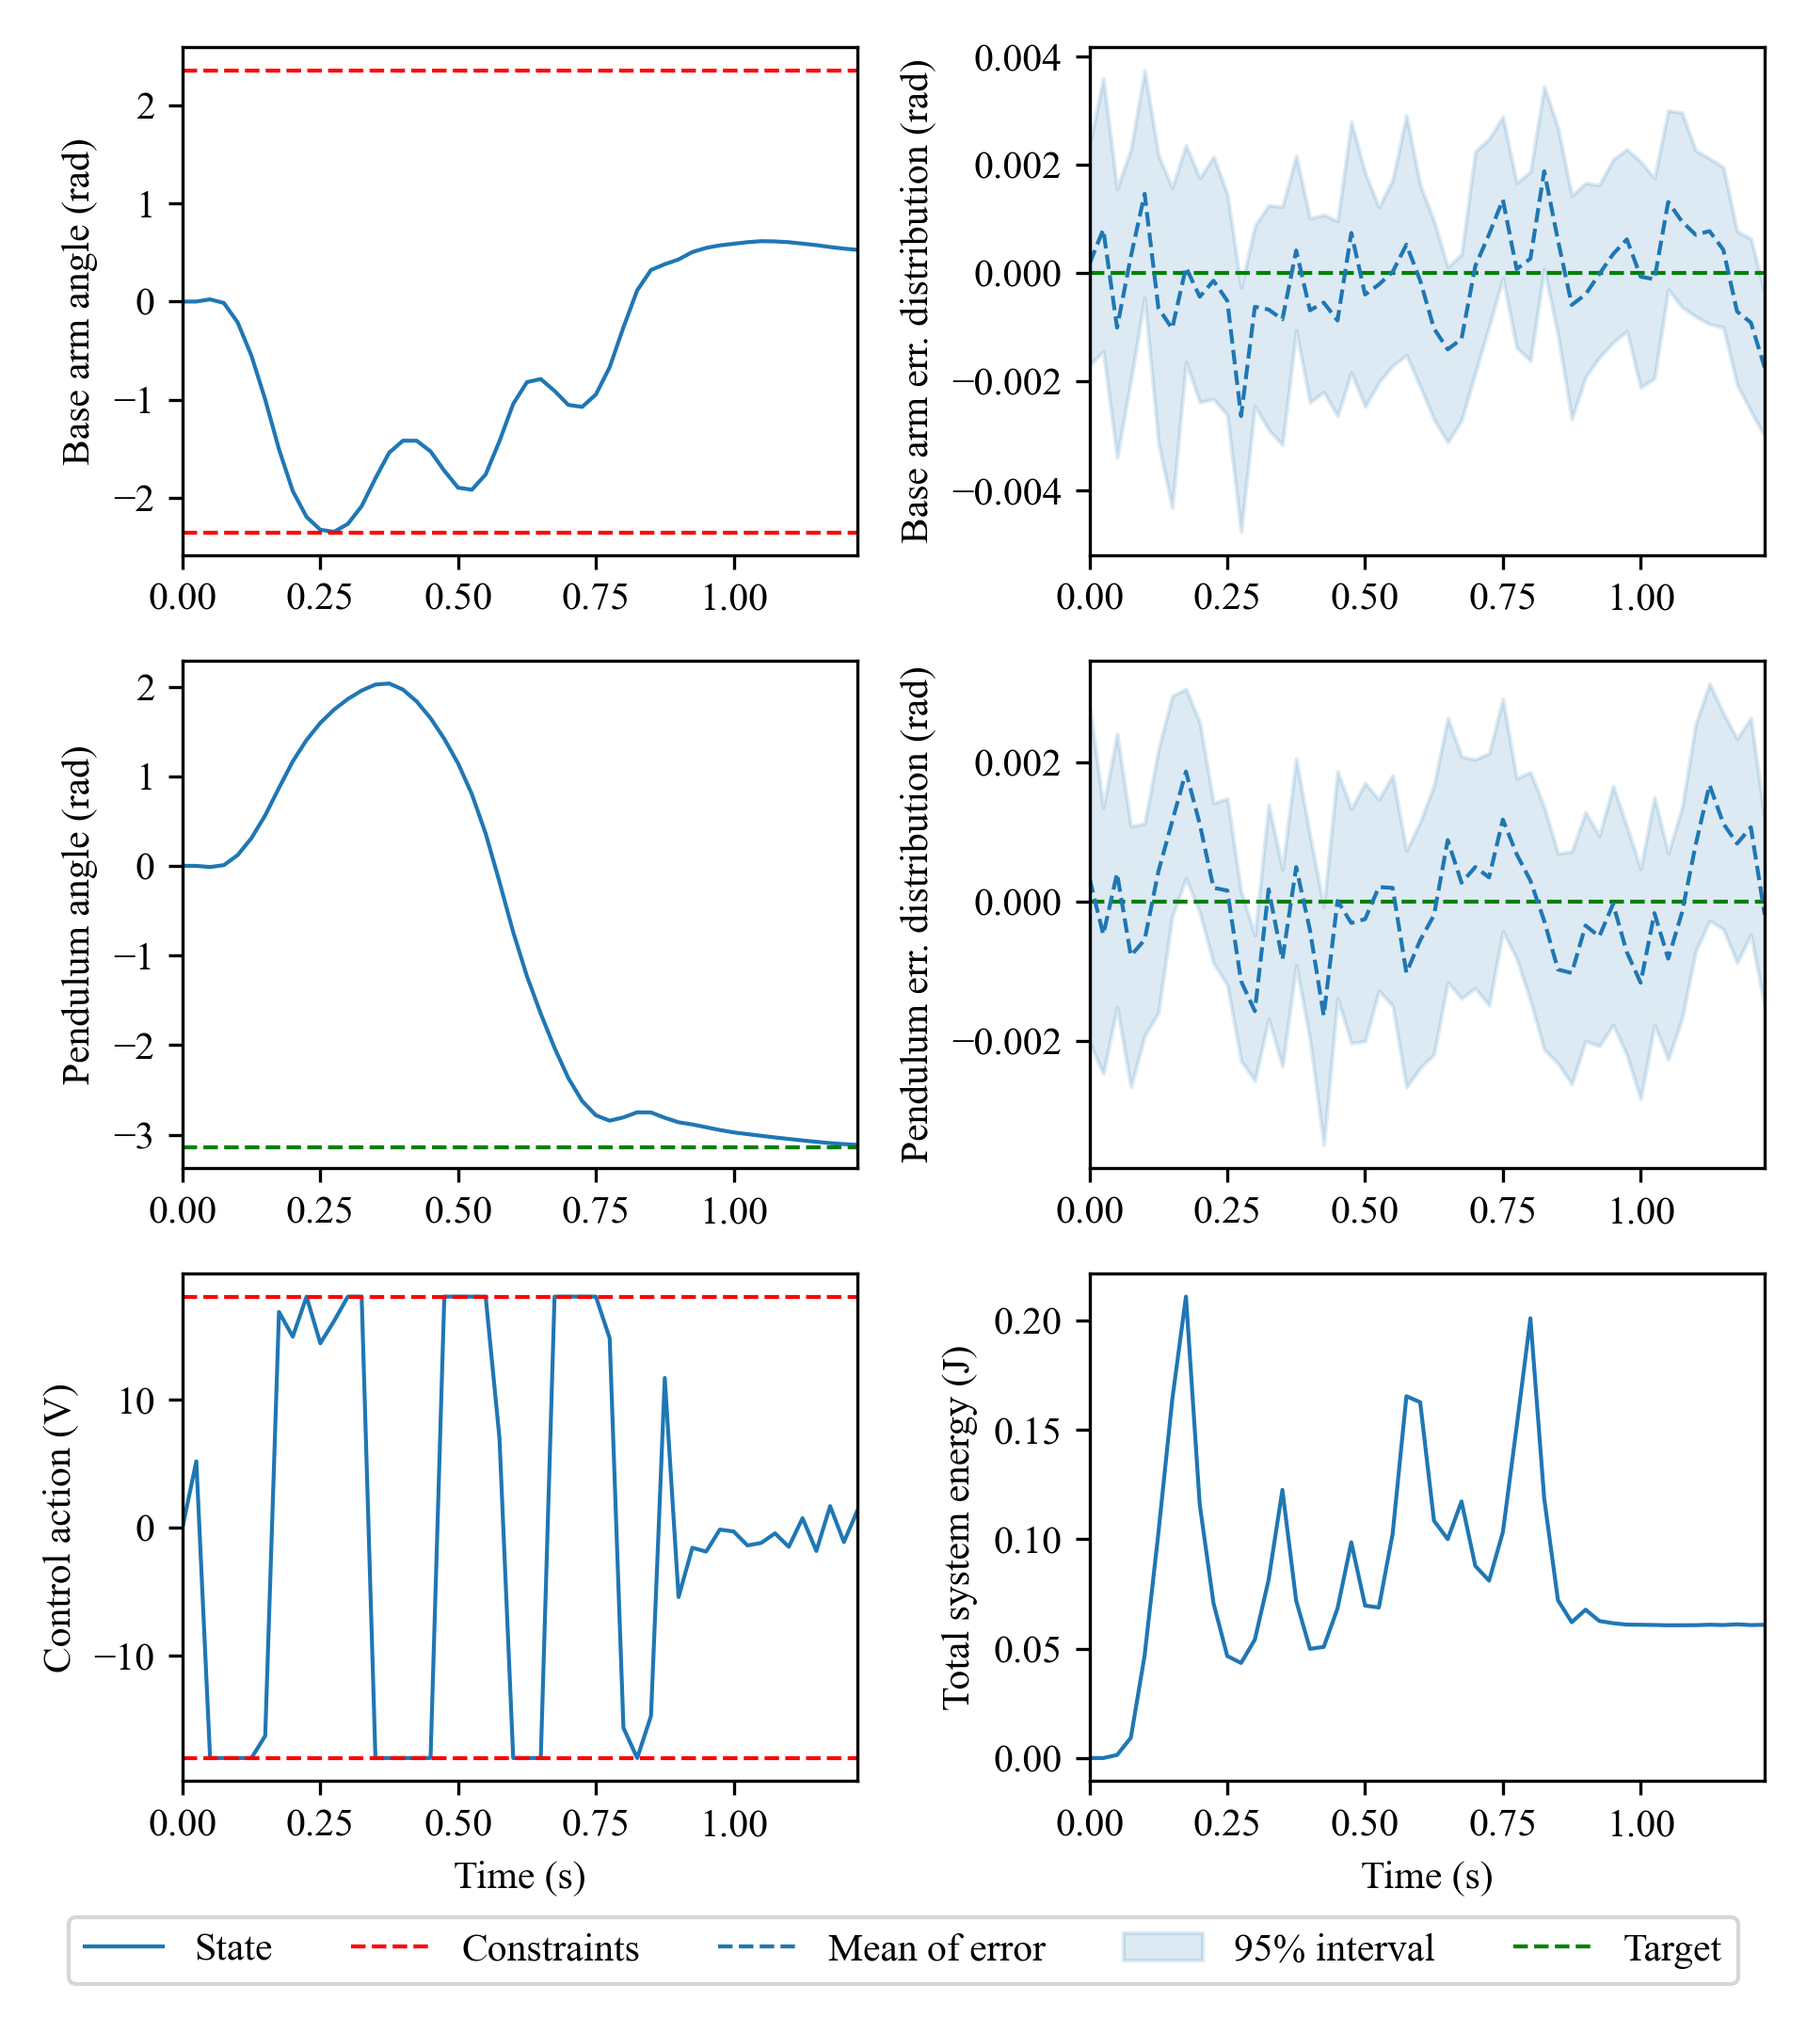
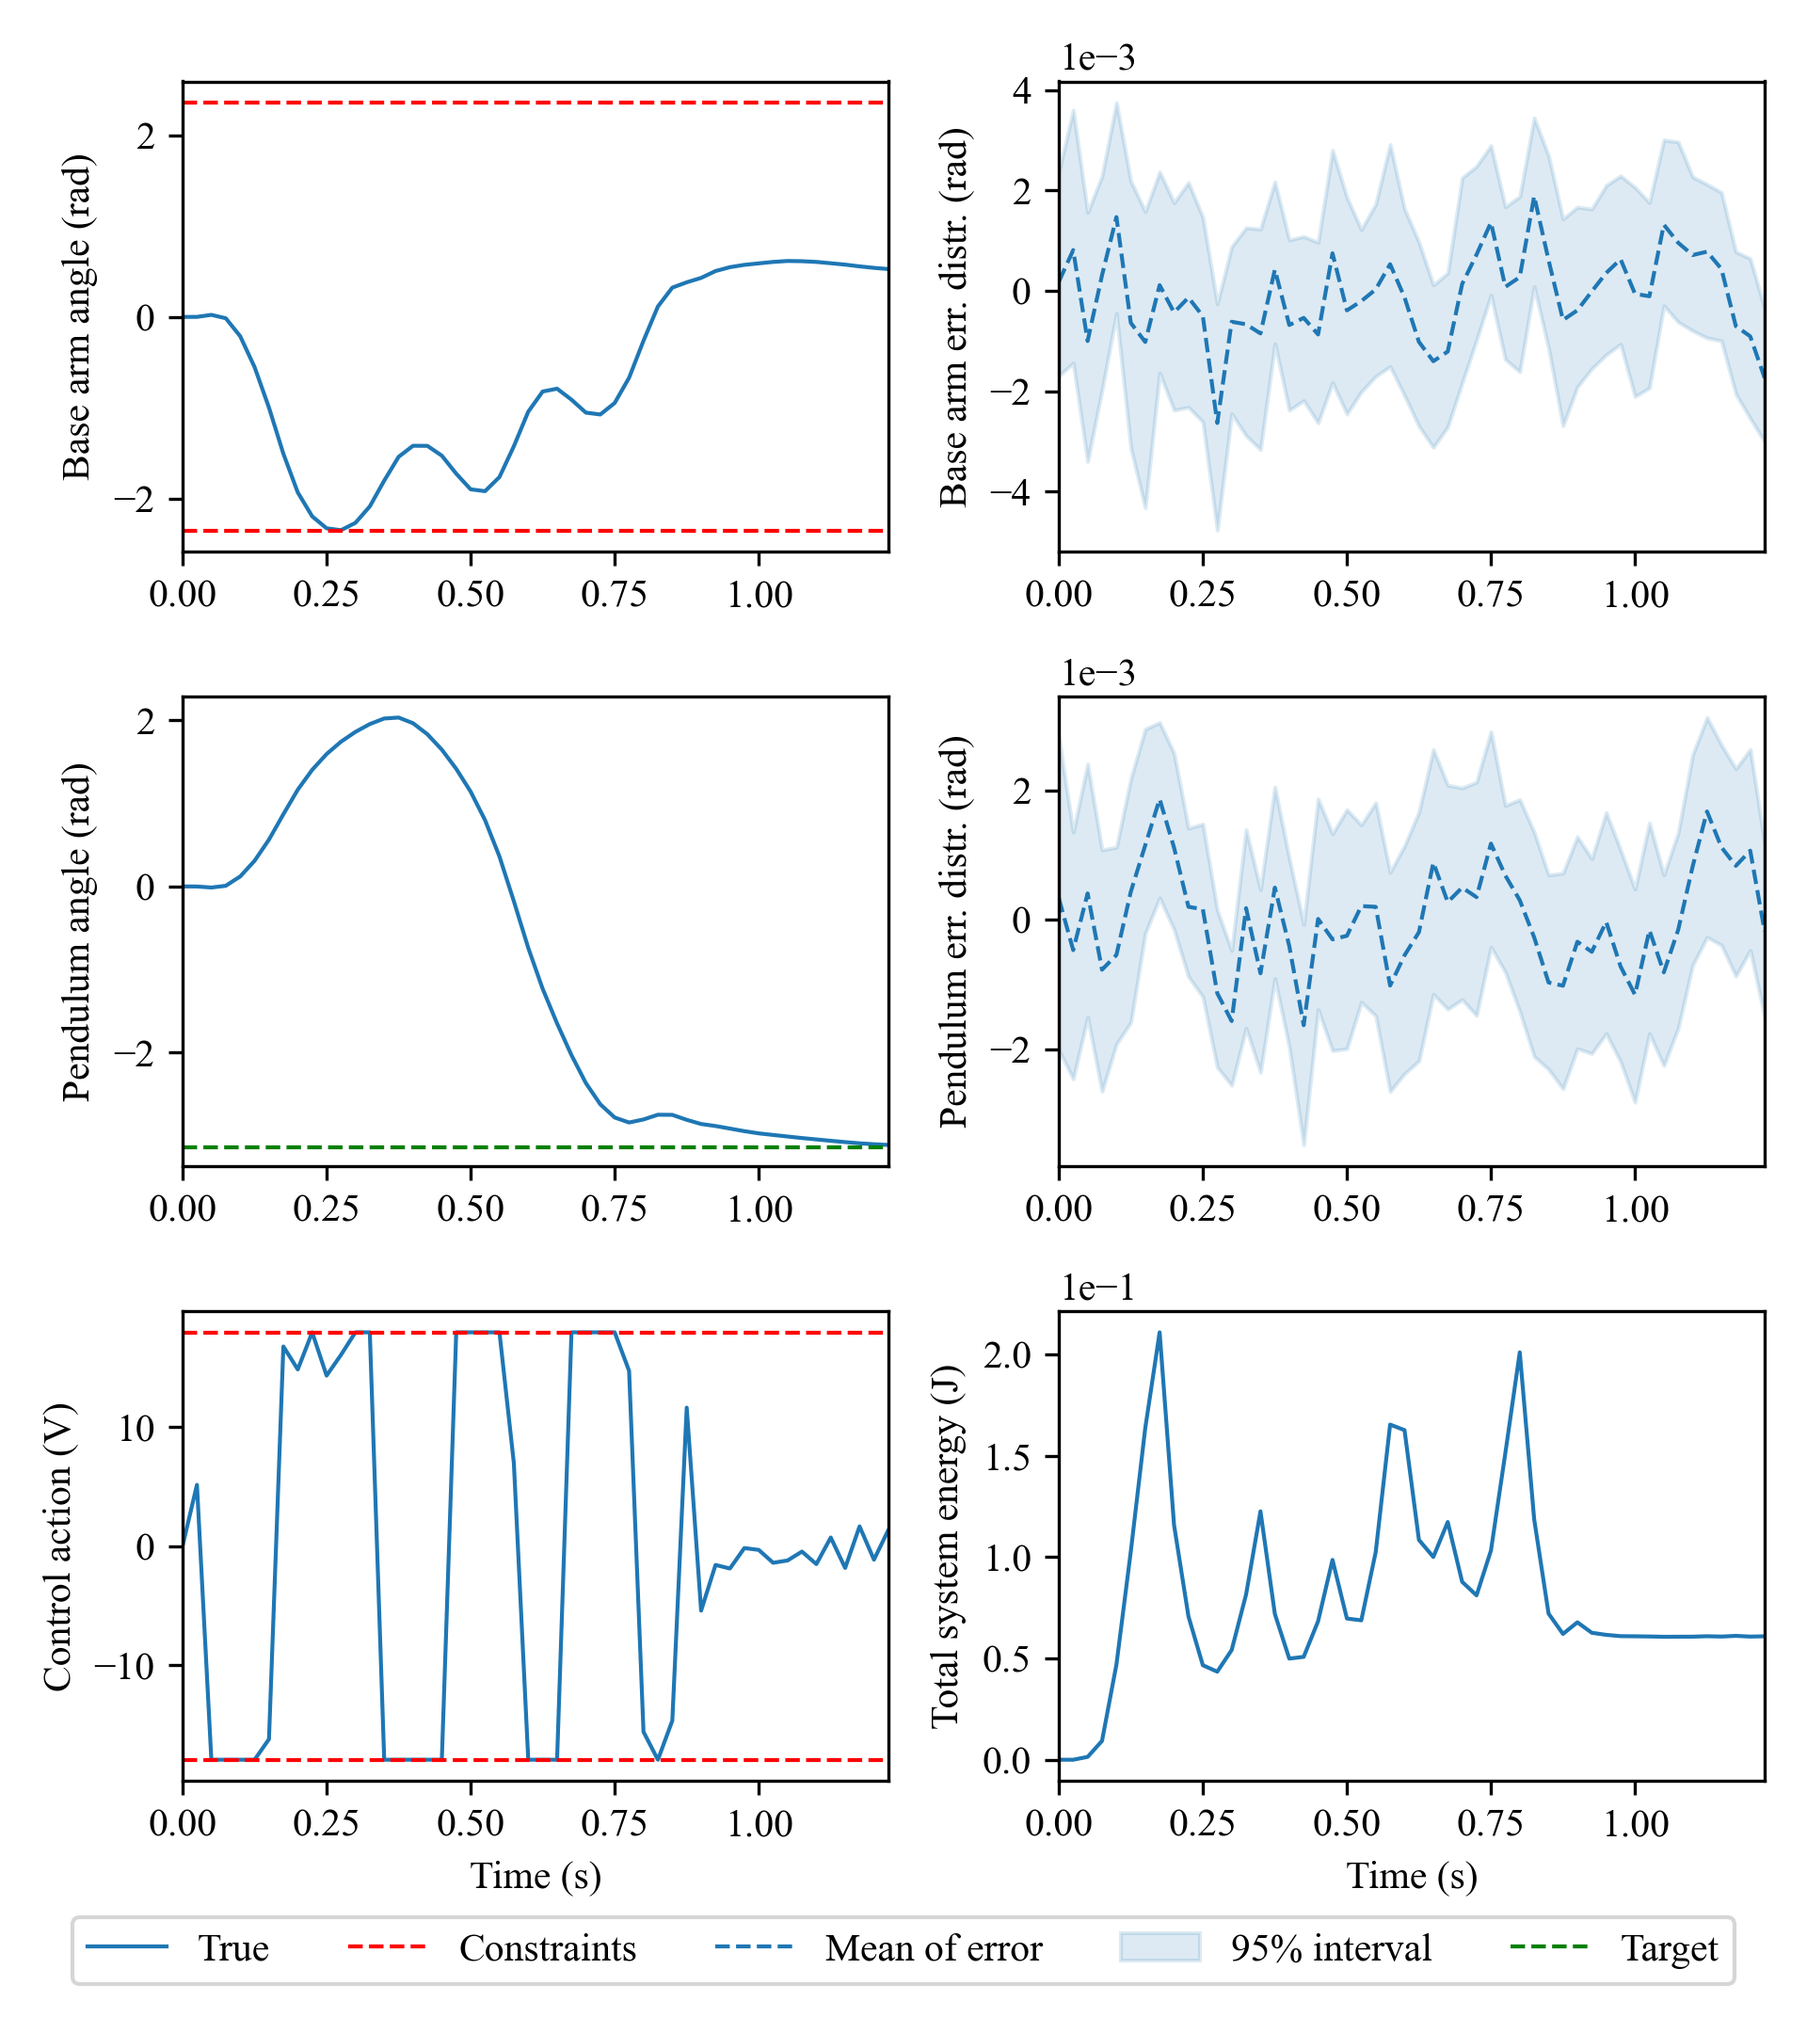
added sci for errors and fixed some titles

diff --git a/plot_pendulum_results.py b/plot_pendulum_results.py
@@ -234,7 +234,7 @@ if plotme1:
     fig = plt.figure(figsize=(6.4,7.2),dpi=300)
     plt.subplot(3, 2, 1)
     # plt.plot(ts,z_sim[0,0,:-1],label='True',linewidth = 2.0,color='k')
-    plt.plot(ts,xt_est_save[:,0,:].mean(axis=0), color=u'#1f77b4',linewidth = 1,label='State')
+    plt.plot(ts,xt_est_save[:,0,:].mean(axis=0), color=u'#1f77b4',linewidth = 1,label='True')
     # plt.fill_between(ts,np.percentile(xt_est_save[:,0,:],99.0,axis=0),np.percentile(xt_est_save[:,0,:],1.0,axis=0),color=u'#1f77b4',alpha=0.15,label='95% CI')
     plt.axhline(state_bound, linestyle='--', color='r', linewidth=1.0, label='Constraints')
     plt.axhline(-state_bound, linestyle='--', color='r', linewidth=1.0)
@@ -245,13 +245,13 @@ if plotme1:
     plt.subplot(3, 2, 2)
     # plt.plot(ts,z_sim[0,0,:-1],label='True',linewidth = 2.0,color='k')
     err = xt_est_save[:,0,:]-z_sim[0,0,:-1]
-    plt.axhline(0.0, linestyle='--', color='g', linewidth=1.0)
+    # plt.axhline(0.0, linestyle='--', color='g', linewidth=1.0)
     plt.plot(ts,err.mean(axis = 0), color=u'#1f77b4',linestyle='--',linewidth = 1,label='Mean of error')
     plt.fill_between(ts,np.percentile(err,97.5,axis=0),np.percentile(err,2.5,axis=0),color=u'#1f77b4',alpha=0.15,label='95% interval')
-
+    plt.ticklabel_format(style='sci',axis='y',scilimits=(0,0))
     # plt.fill_between(ts,np.percentile(xt_est_save[:,0,:],99.0,axis=0),np.percentile(xt_est_save[:,0,:],1.0,axis=0),color=u'#1f77b4',alpha=0.15,label='95% CI') 
     plt.xlim([0,49*0.025])
-    plt.ylabel('Base arm err. distribution (rad)')
+    plt.ylabel('Base arm err. distr. (rad)')
 
 
     plt.subplot(3, 2, 3)
@@ -267,11 +267,12 @@ if plotme1:
     plt.subplot(3, 2, 4)
     # plt.plot(ts,z_sim[1,0,:-1],label='True',linewidth = 2.0,color='k')
     err = xt_est_save[:,1,:]-z_sim[1,0,:-1]
-    plt.axhline(0.0, linestyle='--', color='g', linewidth=1.0)
+    # plt.axhline(0.0, linestyle='--', color='g', linewidth=1.0)
     plt.plot(ts,err.mean(axis = 0), color=u'#1f77b4',linestyle='--',linewidth = 1)
     plt.fill_between(ts,np.percentile(err,97.5,axis=0),np.percentile(err,2.5,axis=0),color=u'#1f77b4',alpha=0.15)
     plt.xlim([0,49*0.025])
-    plt.ylabel('Pendulum err. distribution (rad)')
+    plt.ticklabel_format(style='sci',axis='y',scilimits=(0,0))
+    plt.ylabel('Pendulum err. distr. (rad)')
     # plt.xlabel('Time (s)')
     # plt.legend(loc = 'upper right')
 
@@ -289,6 +290,7 @@ if plotme1:
     ener1 = 0.5*z_sim[2,0,:-1]*z_sim[2,0,:-1]*(mr_true*Lr_true*Lr_true + Jr_true)
     ener2 = grav*mp_true*Lp_true*(1 - np.cos(z_sim[1,0,:-1])) + 0.5*z_sim[3,0,:-1]*z_sim[3,0,:-1]*(Jp_true+mp_true*Lp_true*Lp_true) + mp_true*Lr_true*Lp_true*np.cos(z_sim[1,0,:-1])*z_sim[3,0,:-1]*z_sim[2,0,:-1]
     plt.plot(ts,ener1+ener2, color=u'#1f77b4',linewidth = 1)
+    plt.ticklabel_format(style='sci',axis='y',scilimits=(0,0))
     plt.xlim([0,49*0.025])
     plt.ylabel('Total system energy (J)')
     plt.xlabel('Time (s)')
@@ -304,7 +306,7 @@ if plotme1:
     fig = plt.figure(figsize=(6.4,4.8),dpi=300)
     plt.subplot(2, 2, 1)
     # plt.plot(ts,z_sim[0,0,:-1],label='True',linewidth = 2.0,color='k')
-    plt.plot(ts,xt_est_save[:,0,:].mean(axis=0), color=u'#1f77b4',linewidth = 1,label='State')
+    plt.plot(ts,xt_est_save[:,0,:].mean(axis=0), color=u'#1f77b4',linewidth = 1,label='True')
     # plt.fill_between(ts,np.percentile(xt_est_save[:,0,:],99.0,axis=0),np.percentile(xt_est_save[:,0,:],1.0,axis=0),color=u'#1f77b4',alpha=0.15,label='95% CI')
     plt.axhline(state_bound, linestyle='--', color='r', linewidth=1.0, label='Constraints')
     plt.axhline(-state_bound, linestyle='--', color='r', linewidth=1.0)
@@ -315,13 +317,13 @@ if plotme1:
     plt.subplot(2, 2, 2)
     # plt.plot(ts,z_sim[0,0,:-1],label='True',linewidth = 2.0,color='k')
     err = xt_est_save[:,0,:]-z_sim[0,0,:-1]
-    plt.axhline(0.0, linestyle='--', color='g', linewidth=1.0)
+    # plt.axhline(0.0, linestyle='--', color='g', linewidth=1.0)
     plt.plot(ts,err.mean(axis = 0), color=u'#1f77b4',linestyle='--',linewidth = 1,label='Mean of error')
     plt.fill_between(ts,np.percentile(err,97.5,axis=0),np.percentile(err,2.5,axis=0),color=u'#1f77b4',alpha=0.15,label='95% interval')
-
+    plt.ticklabel_format(style='sci',axis='y',scilimits=(0,0))
     # plt.fill_between(ts,np.percentile(xt_est_save[:,0,:],99.0,axis=0),np.percentile(xt_est_save[:,0,:],1.0,axis=0),color=u'#1f77b4',alpha=0.15,label='95% CI') 
     plt.xlim([0,49*0.025])
-    plt.ylabel('Base arm err. distribution (rad)')
+    plt.ylabel('Base arm err. distr. (rad)')
 
 
     plt.subplot(2, 2, 3)
@@ -337,11 +339,12 @@ if plotme1:
     plt.subplot(2, 2, 4)
     # plt.plot(ts,z_sim[1,0,:-1],label='True',linewidth = 2.0,color='k')
     err = xt_est_save[:,1,:]-z_sim[1,0,:-1]
-    plt.axhline(0.0, linestyle='--', color='g', linewidth=1.0)
+    # plt.axhline(0.0, linestyle='--', color='g', linewidth=1.0)
     plt.plot(ts,err.mean(axis = 0), color=u'#1f77b4',linestyle='--',linewidth = 1)
     plt.fill_between(ts,np.percentile(err,97.5,axis=0),np.percentile(err,2.5,axis=0),color=u'#1f77b4',alpha=0.15)
     plt.xlim([0,49*0.025])
-    plt.ylabel('Pendulum err. distribution (rad)')
+    plt.ticklabel_format(style='sci',axis='y',scilimits=(0,0))
+    plt.ylabel('Pendulum err. distr. (rad)')
     plt.xlabel('Time (s)')
     # plt.legend(loc = 'upper right')
     plt.figlegend(loc='upper center',bbox_to_anchor=[0.5, 0.1], ncol=5)
@@ -364,13 +367,13 @@ if plotme1:
     plt.subplot(4, 2, 2)
     # plt.plot(ts,z_sim[0,0,:-1],label='True',linewidth = 2.0,color='k')
     err = xt_est_save[:,0,:]-z_sim[0,0,:-1]
-    plt.axhline(0.0, linestyle='--', color='g', linewidth=1.0)
+    # plt.axhline(0.0, linestyle='--', color='g', linewidth=1.0)
     plt.plot(ts,err.mean(axis = 0), color=u'#1f77b4',linestyle='--',linewidth = 1,label='Mean of error')
     plt.fill_between(ts,np.percentile(err,97.5,axis=0),np.percentile(err,2.5,axis=0),color=u'#1f77b4',alpha=0.15,label='95% interval')
-
+    plt.ticklabel_format(style='sci',axis='y',scilimits=(0,0))
     # plt.fill_between(ts,np.percentile(xt_est_save[:,0,:],99.0,axis=0),np.percentile(xt_est_save[:,0,:],1.0,axis=0),color=u'#1f77b4',alpha=0.15,label='95% CI') 
     plt.xlim([0,49*0.025])
-    plt.ylabel('Base arm err. distrbution (rad)')
+    plt.ylabel('Base arm err. distr. (rad)')
 
     plt.subplot(4, 2, 3)
     # plt.plot(ts,z_sim[0,0,:-1],label='True',linewidth = 2.0,color='k')
@@ -384,14 +387,14 @@ if plotme1:
 
     plt.subplot(4, 2, 4)
     # plt.plot(ts,z_sim[0,0,:-1],label='True',linewidth = 2.0,color='k')
-    err = xt_est_save[:,2,:]-z_sim[2,0,:-1]
-    plt.axhline(0.0, linestyle='--', color='g', linewidth=1.0)
-    plt.plot(ts,err.mean(axis = 0), color=u'#1f77b4',linestyle='--',linewidth = 1)
-    plt.fill_between(ts,np.percentile(err,97.5,axis=0),np.percentile(err,2.5,axis=0),color=u'#1f77b4',alpha=0.15)
-
+    err = xt_est_save[:,2,1:]-z_sim[2,0,1:-1]
+    # plt.axhline(0.0, linestyle='--', color='g', linewidth=1.0)
+    plt.plot(ts[1:],err.mean(axis = 0), color=u'#1f77b4',linestyle='--',linewidth = 1)
+    plt.fill_between(ts[1:],np.percentile(err,97.5,axis=0),np.percentile(err,2.5,axis=0),color=u'#1f77b4',alpha=0.15)
+    plt.ticklabel_format(style='sci',axis='y',scilimits=(0,0))
     # plt.fill_between(ts,np.percentile(xt_est_save[:,0,:],99.0,axis=0),np.percentile(xt_est_save[:,0,:],1.0,axis=0),color=u'#1f77b4',alpha=0.15,label='95% CI') 
     plt.xlim([0,49*0.025])
-    plt.ylabel('Base arm velocity err. distrbution (rad/s)')
+    plt.ylabel('Base arm velocity err. distr. (rad/s)')
 
 
     plt.subplot(4, 2, 5)
@@ -407,11 +410,12 @@ if plotme1:
     plt.subplot(4, 2, 6)
     # plt.plot(ts,z_sim[1,0,:-1],label='True',linewidth = 2.0,color='k')
     err = xt_est_save[:,1,:]-z_sim[1,0,:-1]
-    plt.axhline(0.0, linestyle='--', color='g', linewidth=1.0)
+    # plt.axhline(0.0, linestyle='--', color='g', linewidth=1.0)
     plt.plot(ts,err.mean(axis = 0), color=u'#1f77b4',linestyle='--',linewidth = 1)
     plt.fill_between(ts,np.percentile(err,97.5,axis=0),np.percentile(err,2.5,axis=0),color=u'#1f77b4',alpha=0.15)
     plt.xlim([0,49*0.025])
-    plt.ylabel('Pendulum err. distribution (rad)')
+    plt.ticklabel_format(style='sci',axis='y',scilimits=(0,0))
+    plt.ylabel('Pendulum err. distr. (rad)')
     plt.xlabel('Time (s)')
     # plt.legend(loc = 'upper right')
 
@@ -427,12 +431,13 @@ if plotme1:
 
     plt.subplot(4, 2, 8)
     # plt.plot(ts,z_sim[1,0,:-1],label='True',linewidth = 2.0,color='k')
-    err = xt_est_save[:,3,:]-z_sim[3,0,:-1]
-    plt.axhline(0.0, linestyle='--', color='g', linewidth=1.0)
-    plt.plot(ts,err.mean(axis = 0), color=u'#1f77b4',linestyle='--',linewidth = 1)
-    plt.fill_between(ts,np.percentile(err,97.5,axis=0),np.percentile(err,2.5,axis=0),color=u'#1f77b4',alpha=0.15)
+    err = xt_est_save[:,3,1:]-z_sim[3,0,1:-1]
+    # plt.axhline(0.0, linestyle='--', color='g', linewidth=1.0)
+    plt.plot(ts[1:],err.mean(axis = 0), color=u'#1f77b4',linestyle='--',linewidth = 1)
+    plt.fill_between(ts[1:],np.percentile(err,97.5,axis=0),np.percentile(err,2.5,axis=0),color=u'#1f77b4',alpha=0.15)
     plt.xlim([0,49*0.025])
-    plt.ylabel('Pendulum velocity err. distribution (rad/s)')
+    plt.ticklabel_format(style='sci',axis='y',scilimits=(0,0))
+    plt.ylabel('Pendulum velocity err. distr. (rad/s)')
     plt.xlabel('Time (s)')
     # plt.legend(loc = 'upper right')
     plt.figlegend(loc='upper center',bbox_to_anchor=[0.5, 0.05], ncol=5)
